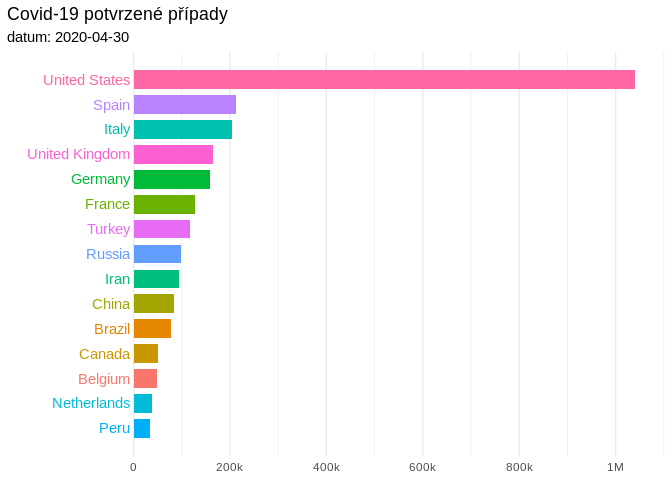
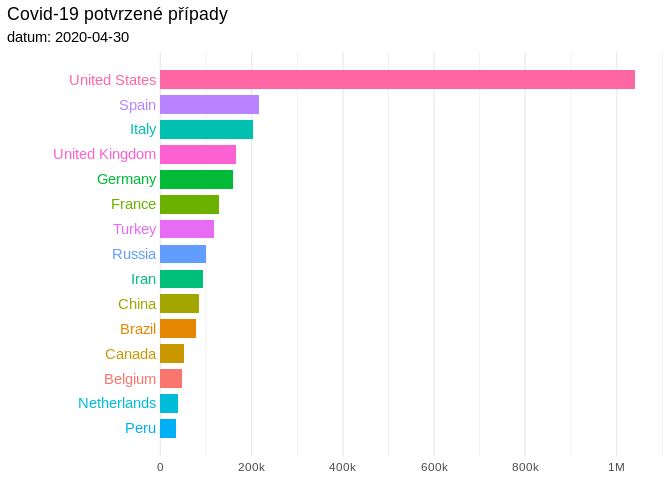
update data for gganimate

diff --git a/_posts/2020-05-13-animace-v-ggplot2-covid-19.md b/_posts/2020-05-13-animace-v-ggplot2-covid-19.md
@@ -3,7 +3,6 @@ title: "Animace v ggplot2"
 author: author
 post_date: 2020-05-13
 layout: post
-# categories: cat
 output: jekyllthat::jekylldown
 excerpt_separator: <!--more-->
 excerpt_image: "gganimate-covid/animate-1.gif"
@@ -47,7 +46,7 @@ nebudeme.
 covid <- read_csv("https://covid.ourworldindata.org/data/owid-covid-data.csv")
 ```
 
-Z dat je potřeba nejprve odstranit souhrnná data za celý svět. Pro naší
+Z dat je potřeba nejprve odstranit souhrnná data za celý svět. Pro naši
 vizualizaci vezmeme pouze data od začátku března. Pro každý den nám
 stačí informace o 15 státech s největším počtem potvrzených případů.
 Proto si zvlášť pro každý den jednotlivé státy očíslujeme a necháme si
@@ -79,9 +78,9 @@ Vytvořená data (prvních několik řádků) vypadá takto.
 ## Statický graf
 
 Jak bylo zmíněno v úvodu, přechod z grafu do animace se dá zvládnout
-jediným příkazem. Začneme proto přípravou statického grafu do výsledné
-podoby. Ten poté jednoduše převedeme do animace. Pro statický graf nám
-postačí data pro jeden den.
+jediným příkazem. Začneme proto přípravou statického grafu do
+požadovaného formátu. Ten poté jednoduše převedeme do animace. Pro
+statický graf nám postačí data pro jeden den.
 
 ``` r
 selected_date <- as.Date("2020-04-30")
@@ -123,14 +122,15 @@ byl na hodnotě 0. Pro lepší čitelnost můžeme odsadit o jednu mezeru.
 Název státu odstraníme z legendy pomocí `guide=F` u obou parametrů
 barvy. Při vykreslování grafu `ggplot` ignoruje velikost textu a je
 možné, že se text nevejde do obrázku. V tomto případě je nejjednodušší
-ručně rozšířit oblast grafu o předem zvolenou hodnotu.
+ručně rozšířit oblast grafu o předem zvolenou hodnotu pomocí vrstvy
+`expand_limits()`.
 
 ``` r
-p <- p + 
+p <- p +
   geom_text(aes(y = 0, label = paste0(location, " "), color = location), hjust = 'right') +
   scale_fill_discrete(guide = F) +
   scale_color_discrete(guide = F) +
-  expand_limits(y = -200000)
+  expand_limits(y = -270000)
 plot(p)
 ```
 
@@ -145,7 +145,7 @@ vzhled. Motiv si snadno změníte pomocí některé z vrstev `theme_*`.
 
 ``` r
 p <- p +
-  labs(x = NULL, y = NULL, title = "Covid-19 potvrzené případy", 
+  labs(x = NULL, y = NULL, title = "Covid-19 potvrzené případy",
        subtitle = paste("datum:", selected_date)) +
   scale_y_continuous(
     breaks = seq(0, 2e6, 2e5),
@@ -155,8 +155,9 @@ p <- p +
 plot(p)
 ```
 
-![](/assets/gganimate-covid/labels-1.png)<!-- --> Graf je samozřejmě
-možné vytvořit jednou posloupností příkazů.
+![](/assets/gganimate-covid/labels-1.png)<!-- -->
+
+Graf je samozřejmě možné vytvořit jednou posloupností příkazů.
 
 ``` r
 p <- ggplot(data_day, aes(rank)) +
@@ -166,8 +167,8 @@ p <- ggplot(data_day, aes(rank)) +
   geom_text(aes(y = 0, label = paste0(location, " "), color = location), hjust = 'right') +
   scale_fill_discrete(guide = F) +
   scale_color_discrete(guide = F) +
-  expand_limits(y = -200000) +
-  labs(x = NULL, y = NULL, title = "Covid-19 potvrzené případy", 
+  expand_limits(y = -250000) +
+  labs(x = NULL, y = NULL, title = "Covid-19 potvrzené případy",
        subtitle = paste("datum:", selected_date)) +
   scale_y_continuous(
     breaks = seq(0, 2e6, 2e5),
@@ -195,8 +196,8 @@ anim <- ggplot(data, aes(rank)) +                                          # <<<
   geom_text(aes(y = 0, label = paste0(location, " "), color = location), hjust = 'right') +
   scale_fill_discrete(guide = F) +
   scale_color_discrete(guide = F) +
-  expand_limits(y = -200000) +
-  labs(x = NULL, y = NULL, title = "Covid-19 potvrzené případy", 
+  expand_limits(y = -300000) +
+  labs(x = NULL, y = NULL, title = "Covid-19 potvrzené případy",
        subtitle = "datum: {frame_time}") +                                 # <<<<<<<<<<<
   scale_y_continuous(
     breaks = seq(0, 2e6, 2e5),
@@ -209,7 +210,7 @@ anim <- ggplot(data, aes(rank)) +                                          # <<<
 Animaci již zbývá pouze vykreslit. Takto si ji můžeme jednoduše
 zobrazit. Parametr `nframes` určuje rychlost animace - čím více snímků,
 tím pomalejší a delší animace bude. Aby animace neskončila hned za
-poslením datem, je možné si ji chvíli pozdržet.
+posledním datem, je možné si ji chvíli pozdržet parametrem `end_pause`.
 
 ``` r
 animate(anim, nframes = 500, end_pause = 25)
@@ -219,7 +220,9 @@ animate(anim, nframes = 500, end_pause = 25)
 
 Alternativně je možné animace rovnou uložit do souboru ve formátu gif,
 mp4 a spousty
-    dalších.
+dalších.
 
-    animate(anim, nframes = 500, end_pause = 25, renderer = gifski_renderer("covid.gif"))
-    animate(anim, nframes = 500, end_pause = 25, renderer = av_renderer("covid.mp4"))
+``` r
+animate(anim, nframes = 500, end_pause = 25, renderer = gifski_renderer("covid.gif"))
+animate(anim, nframes = 500, end_pause = 25, renderer = av_renderer("covid.mp4"))
+```

diff --git a/404.md b/404.md
@@ -1,8 +1,8 @@
-—
+—--
 layout: default
 title: “404: Page not found”
 permalink: 404.html
-—
+—--
 
 # 404: Page not found
 Sorry, we’ve misplaced that URL or it’s pointing to something that doesn’t exist. [Head back home]({{ site.url }}) to try finding it again.
